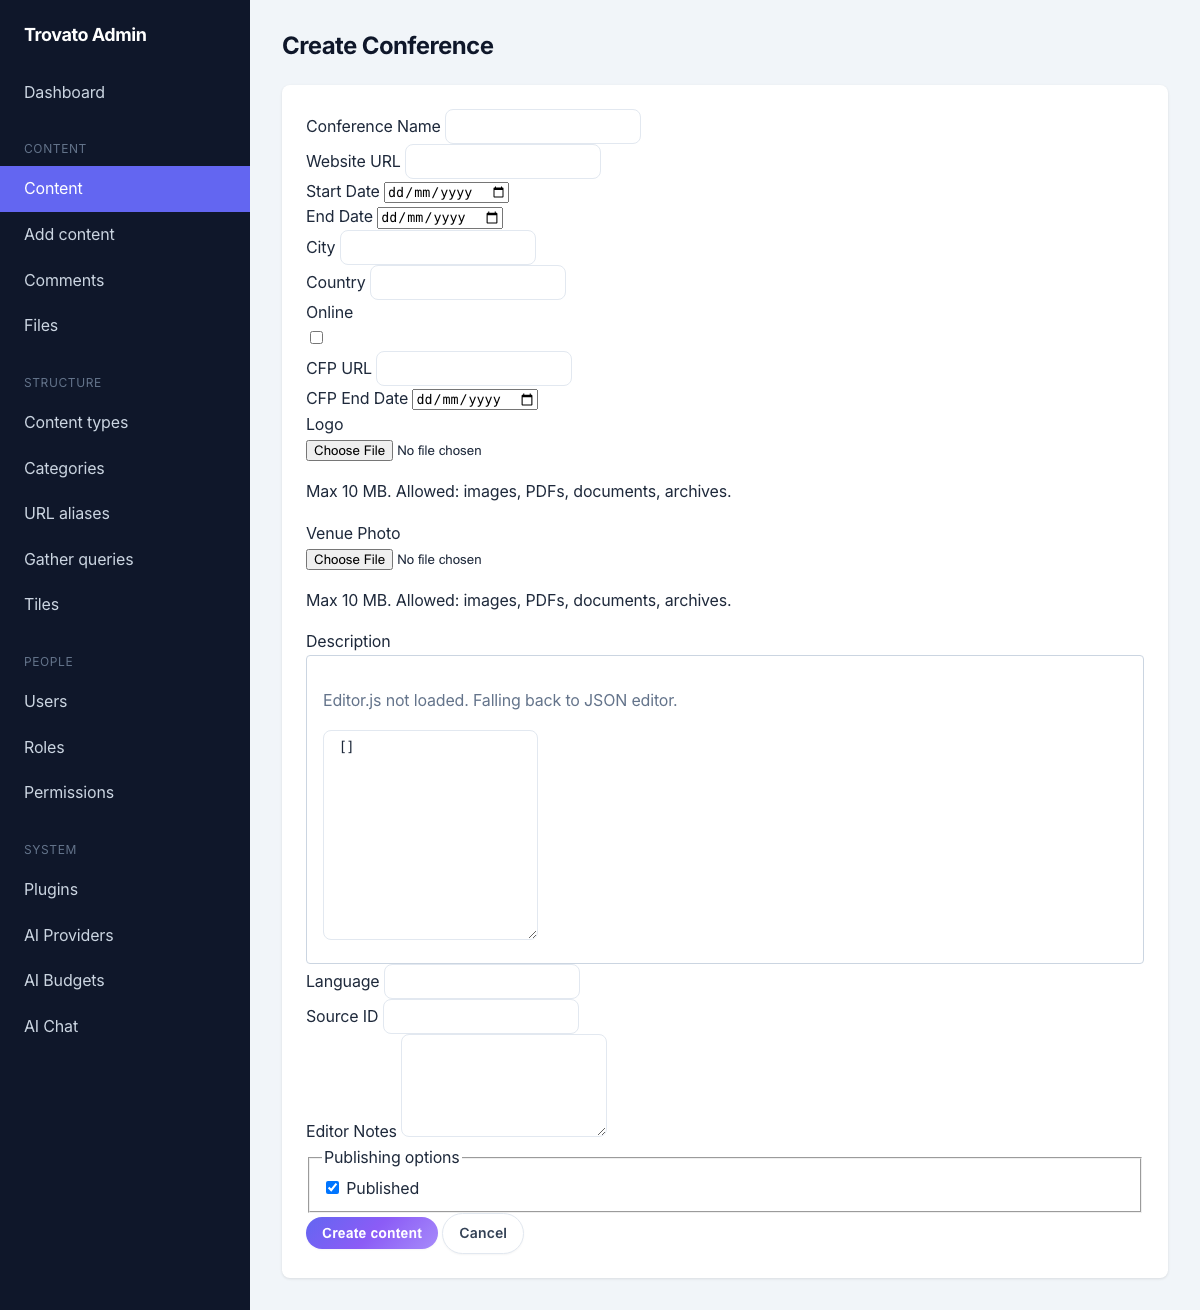
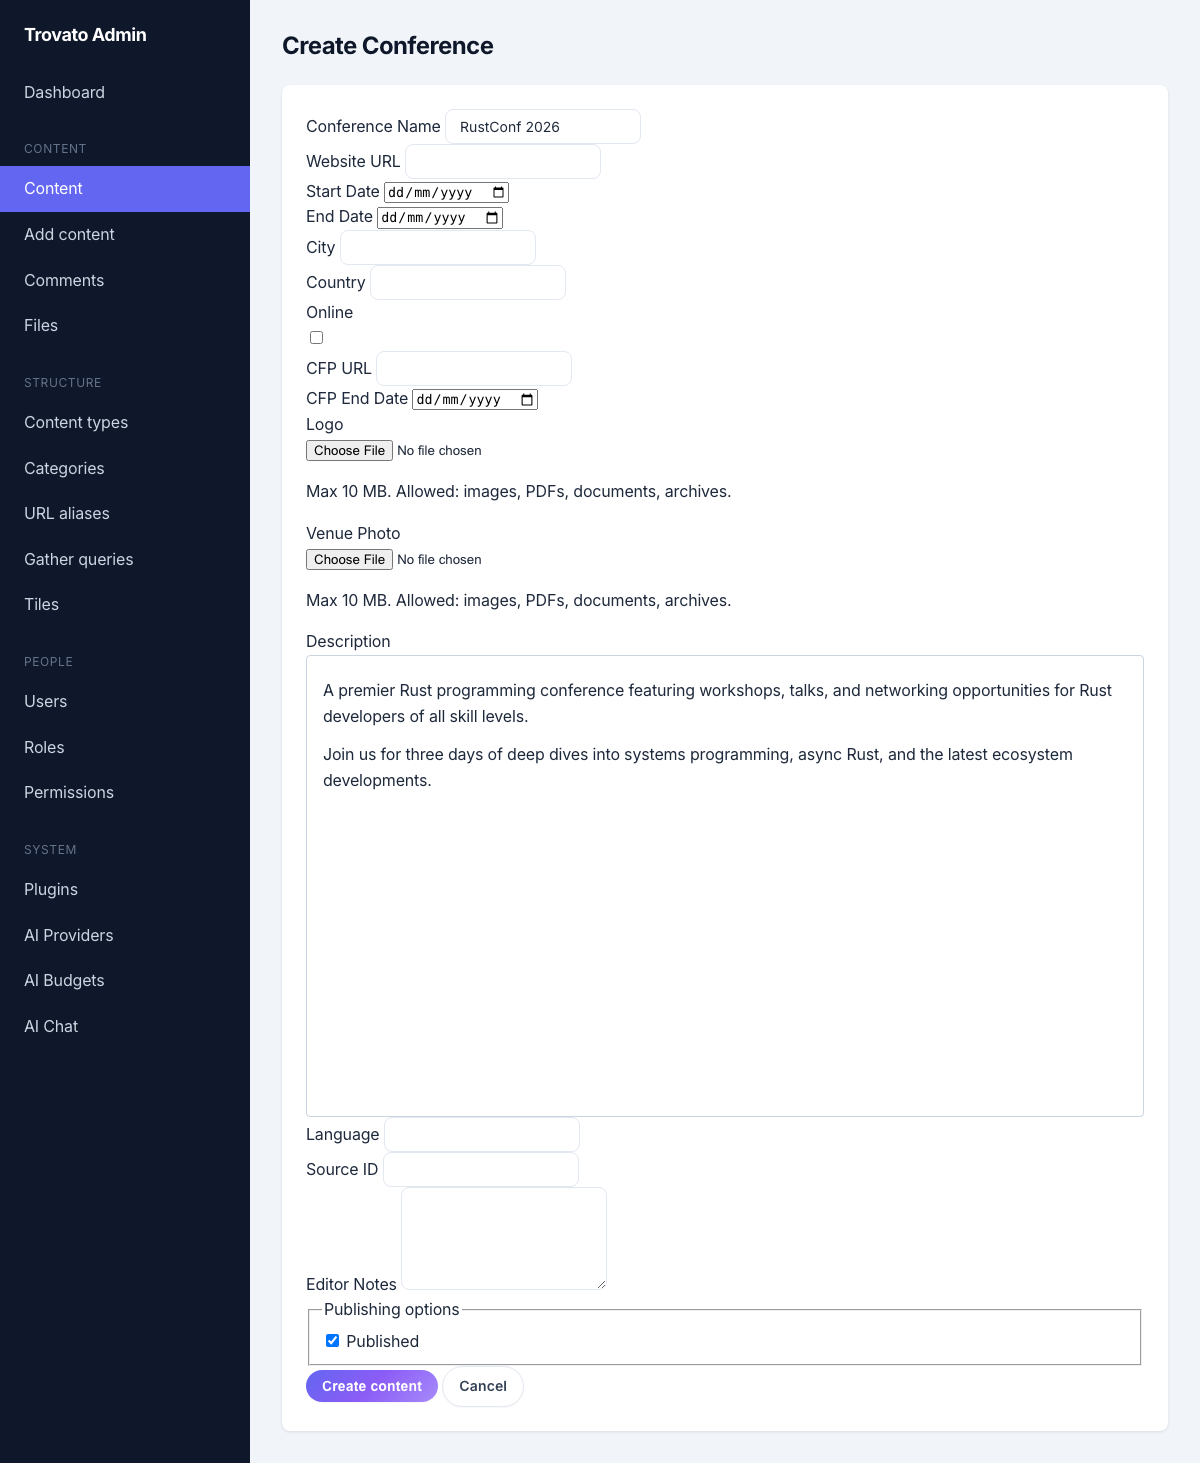
fix: working block editor and field type display in admin UI
- Fix Editor.js CDN URLs (correct bundle filenames and versions that
  actually exist on jsdelivr)
- Add field_type_label Tera filter to display FieldType enum variants
  as human-readable names instead of [object] for struct variants
- Recapture all Part 5 screenshots showing working WYSIWYG editor
  and correct field type labels

diff --git a/templates/admin/content-form.html b/templates/admin/content-form.html
@@ -154,14 +154,14 @@
 <script src="/static/js/file-upload.js"></script>
 {% endif %}
 {% if has_blocks %}
-<script src="https://cdn.jsdelivr.net/npm/@editorjs/editorjs@2.30.7/dist/editorjs.umd.bundle.js"></script>
+<script src="https://cdn.jsdelivr.net/npm/@editorjs/editorjs@2.31.5/dist/editorjs.umd.js"></script>
 <script src="https://cdn.jsdelivr.net/npm/@editorjs/header@2.8.8/dist/header.umd.js"></script>
-<script src="https://cdn.jsdelivr.net/npm/@editorjs/list@2.0.2/dist/list.umd.js"></script>
+<script src="https://cdn.jsdelivr.net/npm/@editorjs/list@1.9.0/dist/list.umd.js"></script>
 <script src="https://cdn.jsdelivr.net/npm/@editorjs/quote@2.7.6/dist/quote.umd.js"></script>
-<script src="https://cdn.jsdelivr.net/npm/@editorjs/code@2.9.3/dist/code.umd.js"></script>
-<script src="https://cdn.jsdelivr.net/npm/@editorjs/image@2.10.1/dist/image.umd.js"></script>
+<script src="https://cdn.jsdelivr.net/npm/@editorjs/code@2.9.4/dist/code.umd.js"></script>
+<script src="https://cdn.jsdelivr.net/npm/@editorjs/image@2.10.3/dist/image.umd.js"></script>
 <script src="https://cdn.jsdelivr.net/npm/@editorjs/delimiter@1.4.2/dist/delimiter.umd.js"></script>
-<script src="https://cdn.jsdelivr.net/npm/@editorjs/embed@2.7.6/dist/embed.umd.js"></script>
+<script src="https://cdn.jsdelivr.net/npm/@editorjs/embed@2.8.0/dist/embed.umd.js"></script>
 <script src="/static/js/block-editor.js"></script>
 {% endif %}
 {% endblock %}

diff --git a/templates/admin/field-list.html b/templates/admin/field-list.html
@@ -33,7 +33,7 @@
             <tr data-field="{{ field.field_name }}">
                 <td>{{ field.label }}</td>
                 <td><code>{{ field.field_name }}</code></td>
-                <td>{{ field.field_type }}</td>
+                <td>{{ field.field_type | field_type_label }}</td>
                 <td>{% if field.required %}Yes{% else %}No{% endif %}</td>
                 <td>
                     <a href="/admin/structure/types/{{ content_type.machine_name }}/fields/{{ field.field_name }}/edit">Edit</a>

diff --git a/templates/admin/field-edit.html b/templates/admin/field-edit.html
@@ -35,7 +35,7 @@
 
         <div class="form-item">
             <label class="form-item__label">Field type</label>
-            <code>{{ field.field_type }}</code>
+            <code>{{ field.field_type | field_type_label }}</code>
             <div class="description">Field types cannot be changed after creation.</div>
         </div>
 

diff --git a/crates/kernel/src/theme/engine.rs b/crates/kernel/src/theme/engine.rs
@@ -121,6 +121,30 @@ impl ThemeEngine {
             },
         );
 
+        // Filter for displaying FieldType enum variants as human-readable labels.
+        // FieldType serializes as either a string ("Date", "Boolean", "Blocks") or
+        // an object ({"Text": {"max_length": null}}). This filter extracts the
+        // variant name for display in admin templates.
+        // Usage: {{ field.field_type | field_type_label }}
+        tera.register_filter(
+            "field_type_label",
+            |value: &tera::Value, _args: &std::collections::HashMap<String, tera::Value>| {
+                if let Some(s) = value.as_str() {
+                    // Simple variant: "Date", "Boolean", "TextLong", "Blocks", etc.
+                    Ok(tera::Value::String(s.to_string()))
+                } else if let Some(obj) = value.as_object() {
+                    // Object variant: {"Text": {...}}, {"Compound": {...}}, etc.
+                    if let Some(key) = obj.keys().next() {
+                        Ok(tera::Value::String(key.clone()))
+                    } else {
+                        Ok(tera::Value::String("Unknown".to_string()))
+                    }
+                } else {
+                    Ok(tera::Value::String("Unknown".to_string()))
+                }
+            },
+        );
+
         // Filter for translating interface strings via LocaleService.
         // Usage: {{ "Subscribe" | trans(lang=active_language) }}
         if let Some(locale_service) = locale {
